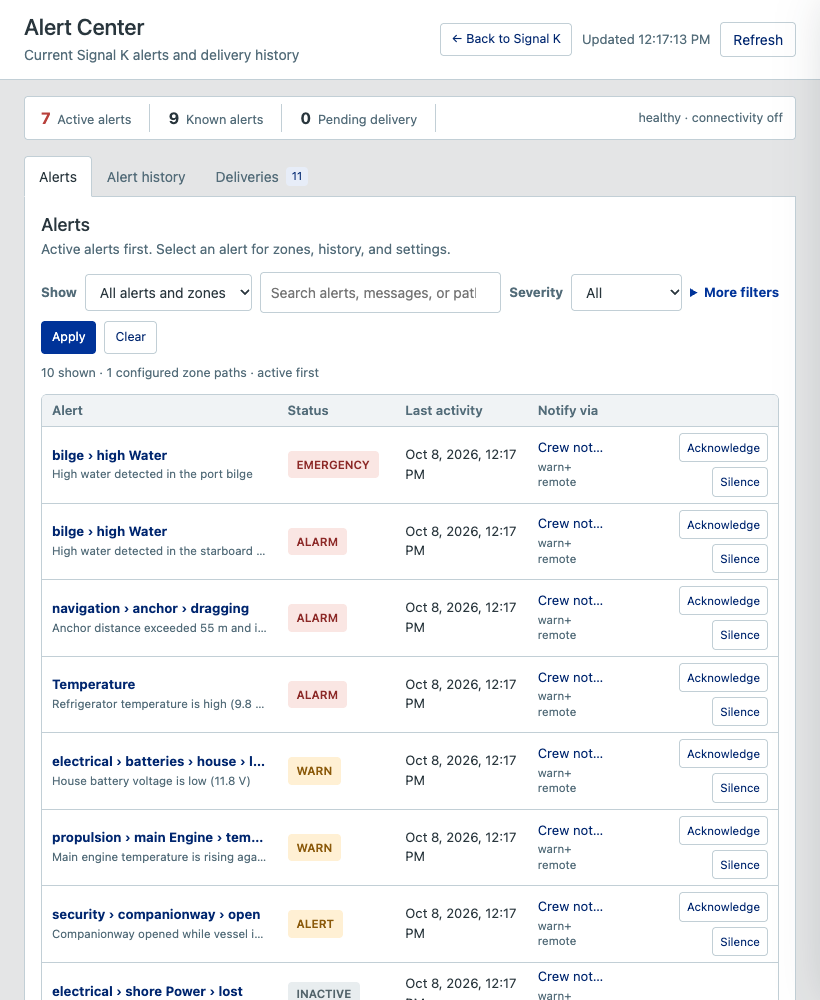
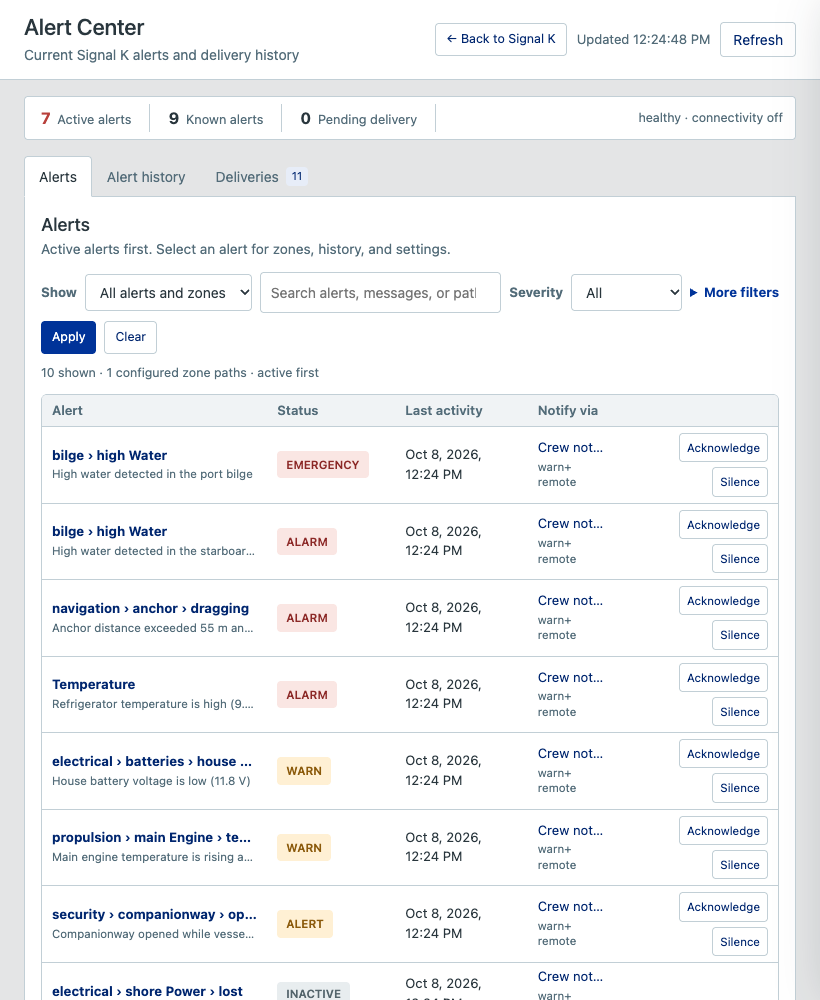
Reserve a fixed status column and report browser geometry failures

diff --git a/test/browser/dashboard.spec.ts b/test/browser/dashboard.spec.ts
@@ -33,18 +33,33 @@ test("uses compact Signal K styling without overflowing the viewport", async ({
     ).toBe(true);
   }
   await page.locator("#alerts-tab").click();
-  expect(
-    await page.locator(".status-summary").evaluateAll((items) =>
-      items.every((item) => {
-        const badge = item.querySelector(".alert-severity");
-        return (
-          !badge ||
-          badge.getBoundingClientRect().right <=
-            item.getBoundingClientRect().right
-        );
-      }),
-    ),
-  ).toBe(true);
+  await expect
+    .poll(() =>
+      page.locator(".status-summary").evaluateAll((items) =>
+        items.flatMap((item) => {
+          const badge = item.querySelector(".alert-severity");
+          if (!badge) return [];
+          const bounds = item.getBoundingClientRect();
+          const badgeBounds = badge.getBoundingClientRect();
+          const cellWidth = item.closest("td")!.getBoundingClientRect().width;
+          const minimum =
+            parseFloat(getComputedStyle(document.documentElement).fontSize) * 8;
+          return cellWidth >= minimum && badgeBounds.right <= bounds.right
+            ? []
+            : [
+                {
+                  label: badge.textContent,
+                  cellWidth,
+                  minimum,
+                  availableWidth: bounds.width,
+                  badgeWidth: badgeBounds.width,
+                  overflow: badgeBounds.right - bounds.right,
+                },
+              ];
+        }),
+      ),
+    )
+    .toEqual([]);
   await page.screenshot({
     path: `test-results/native-ui-${test.info().project.name}.png`,
     fullPage: true,

diff --git a/public/styles.css b/public/styles.css
@@ -567,11 +567,13 @@ h2 {
 }
 .alert-table th:nth-child(1),
 .alert-table td:nth-child(1) {
-  width: 32%;
+  width: auto;
 }
 .alert-table th:nth-child(2),
 .alert-table td:nth-child(2) {
-  width: max(16%, 128px);
+  /* Fixed table layout does not reliably honor max() with mixed %/px widths.
+     Reserve space for EMERGENCY across system fonts; the title takes the rest. */
+  width: 8rem;
 }
 .alert-table th:nth-child(3),
 .alert-table td:nth-child(3) {
